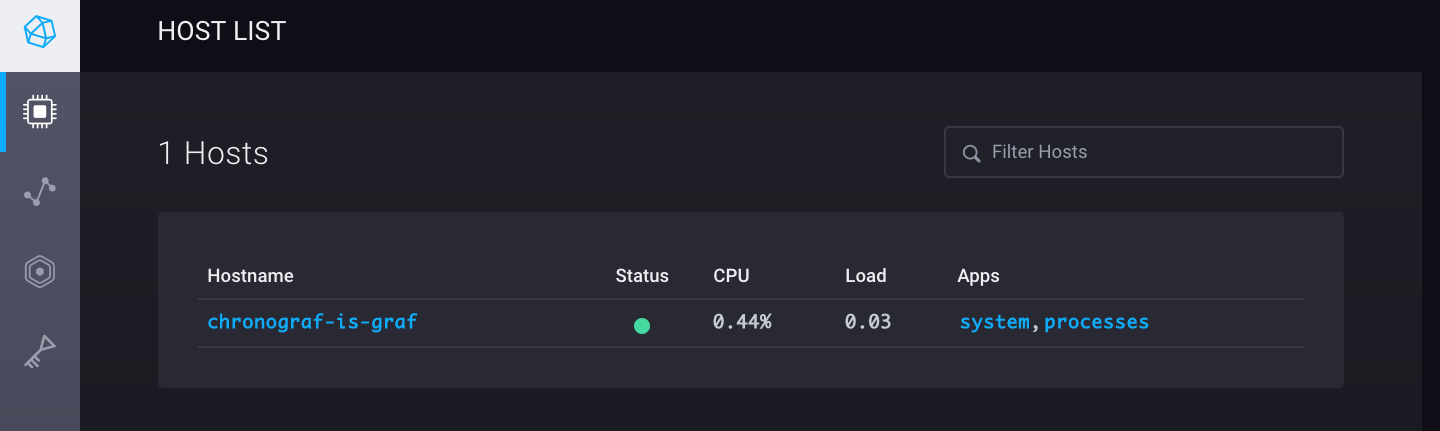
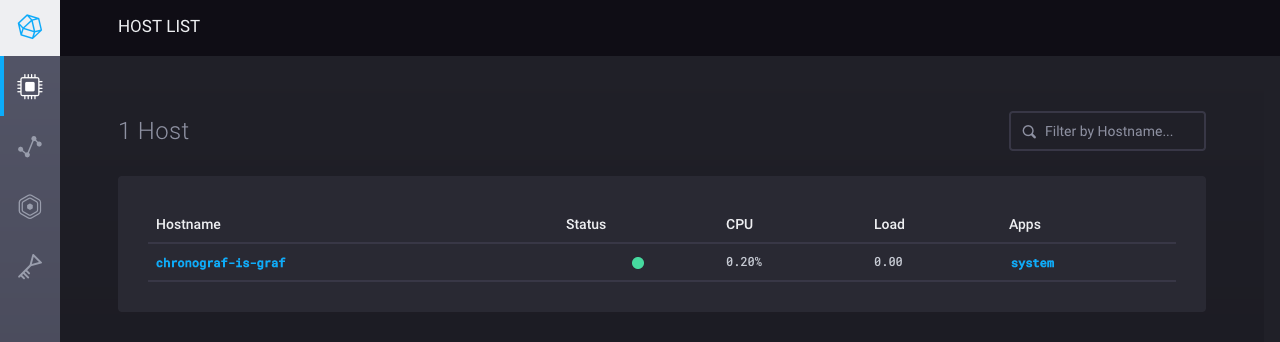
Update INSTALLATION and GETTING_STARTED

diff --git a/docs/INSTALLATION.md b/docs/INSTALLATION.md
@@ -20,8 +20,8 @@ Check out the [downloads](https://www.influxdata.com/downloads/) page for links 
 
 #### 1. Download and Install InfluxDB
 ```
-wget https://dl.influxdata.com/influxdb/releases/influxdb_1.1.1_amd64.deb
-sudo dpkg -i influxdb_1.1.1_amd64.deb
+wget https://dl.influxdata.com/influxdb/releases/influxdb_1.2.0_amd64.deb
+sudo dpkg -i influxdb_1.2.0_amd64.deb
 ```
 
 #### 2. Start InfluxDB
@@ -38,7 +38,7 @@ curl "http://localhost:8086/query?q=show+databases"
 ```
 If InfluxDB is up and running, you should see an object that contains the `_internal` database:
 ```json
-{"results":[{"series":[{"name":"databases","columns":["name"],"values":[["_internal"]]}]}]}
+{"results":[{"statement_id":0,"series":[{"name":"databases","columns":["name"],"values":[["_internal"]]}]}]}
 ```
 So far so good! You're ready to move on to the next section. Note that there's no need to create your own database on your InfluxDB instance; the other components of the TICK stack will handle that for you.
 
@@ -49,8 +49,8 @@ Kapacitor is responsible for creating and sending alerts in Chronograf.
 
 #### 1. Download and Install Kapacitor
 ```
-wget https://dl.influxdata.com/kapacitor/releases/kapacitor_1.1.1_amd64.deb
-sudo dpkg -i kapacitor_1.1.1_amd64.deb
+wget https://dl.influxdata.com/kapacitor/releases/kapacitor_1.2.0_amd64.deb
+sudo dpkg -i kapacitor_1.2.0_amd64.deb
 ```
 
 #### 2. Start Kapacitor
@@ -81,16 +81,15 @@ We will also configure Telegraf's basic [system stats](https://github.com/influx
 
 In a production environment, Telegraf would be installed on your servers and would point the output to an InfluxDB instance on a separate machine.
 Ultimately, you will configure a Telegraf input plugin for each application that you want to monitor.
-At the end of this guide we provide sample configurations for additional applications.
 
 > Note:
-Currently, Chronograf requires users to run Telegraf's [CPU](https://github.com/influxdata/telegraf/blob/master/plugins/inputs/system/CPU_README.md) and [system](https://github.com/influxdata/telegraf/blob/master/plugins/inputs/system/SYSTEM_README.md) plugins to ensure that all Apps appear on the [HOST LIST](https://github.com/influxdata/chronograf/blob/master/docs/GETTING_STARTED.md#host-list) page.
+Currently, Chronograf requires users to run Telegraf's  [system stats](https://github.com/influxdata/telegraf/blob/master/plugins/inputs/system/SYSTEM_README.md) plugin to ensure that all content appears on the [HOST LIST](https://github.com/influxdata/chronograf/blob/master/docs/GETTING_STARTED.md#host-list) page.
 This is a known issue.
 
 #### 1. Download and Install Telegraf
 ```
-wget https://dl.influxdata.com/telegraf/releases/telegraf_1.1.2_amd64.deb
-sudo dpkg -i telegraf_1.1.2_amd64.deb
+wget https://dl.influxdata.com/telegraf/releases/telegraf_1.2.0_amd64.deb
+sudo dpkg -i telegraf_1.2.0_amd64.deb
 ```
 
 #### 2. Start Telegraf
@@ -216,9 +215,9 @@ You should see a welcome page:
 The next steps connect Chronograf to your InfluxDB instance.
 For the `Connection String`, enter the hostname or IP of the machine that InfluxDB is running on, and be sure to include InfluxDB's default port: `8086`.
 Next, name the connection string; this can be anything you want.
-Finally, there's no need to enter any information for the `Username` and `Password` inputs as [authorization is disabled](https://docs.influxdata.com/influxdb/latest/administration/config/#auth-enabled-false) in InfluxDB's default configuration.
+There's no need to edit the last three inputs; [authorization is disabled](https://docs.influxdata.com/influxdb/latest/administration/config/#auth-enabled-false) in InfluxDB's default configuration so `Username` and `Password` can remain blank, and Telegraf's [default database name](https://github.com/influxdata/telegraf/blob/master/etc/telegraf.conf#L89) is `telegraf`.
 
-Click `Create New Server` to move on to the `HOST LIST` page:
+Click `Connect New Source` to move on to the `HOST LIST` page:
 
 ![Chronograf Host List Page](https://github.com/influxdata/chronograf/blob/master/docs/images/host-list.png)
 

diff --git a/docs/GETTING_STARTED.md b/docs/GETTING_STARTED.md
@@ -12,9 +12,9 @@ It lists every host that is sending [Telegraf](https://github.com/influxdata/tel
 
 ![Host List](https://github.com/influxdata/chronograf/blob/master/docs/images/host-list-gs.png)
 
-The Chronograf instance shown above is connected to three hosts (`telegraf-region-neverland`, `telegraf-region-narnia`, and `telegraf-region-howardsend`).
-The first host is using 9.96%	of its total CPU and has a load of 0.15.
-It has two configured apps: `system` and `processes`.
+The Chronograf instance shown above is connected to two hosts (`telegraf-neverland` and `telegraf-narnia`).
+The first host is using 0.23%	of its total CPU and has a load of 0.00.
+It has one configured app: `system`.
 Apps are Telegraf [input plugins](https://github.com/influxdata/telegraf#input-plugins) that have dashboard templates in Chronograf.
 
 Click on the app on the `HOST LIST` page to access its dashboard template.
@@ -23,7 +23,7 @@ Here's the dashboard template for Telegraf's [system stats](https://github.com/i
 
 ![System Graph Layout](https://github.com/influxdata/chronograf/blob/master/docs/images/system-layout-gs.gif)
 
-Notice that you can hover over the graphs to get additional information about the data, and you select alternative time ranges for the graphs by using the time selector in the top right corner.
+Hover over the graphs to get additional information about the data, and select alternative time ranges for the graphs by using the time selector in the top right corner.
 
 See the [README](https://github.com/influxdata/chronograf#dashboard-templates) for a complete list of the apps supported by Chronograf.
 
@@ -54,8 +54,8 @@ Chronograf also offers a UI for generating [Kapacitor](https://github.com/influx
 
 ### Create an Alert Rule
 Easily create a Kapacitor alert rule on the `KAPACITOR RULES` page.
-Access the `KAPACITOR RULES` page by hovering over the third item in the left navigation menu and selecting `Rules`.
-Then, click on the `Add New Rule` button to create a new alert rule.
+Access the `KAPACITOR RULES` page by hovering over the third item in the left navigation menu and selecting `Kapacitor Rules`.
+Then, click on the `Create New Rule` button to create a new alert rule.
 
 The example rule shown below operates on data from Telegraf's [system stats](https://github.com/influxdata/telegraf/tree/master/plugins/inputs/system) input plugin and sends a simple threshold alert to Slack:
 
@@ -88,4 +88,4 @@ You can configure your alert endpoints on the `CONFIGURE KAPACITOR` page.
 See all active alerts on the `ALERTING` page, and filter them by `Name`,
 `Level`, and `Host`:
 
-![Alert View](https://github.com/influxdata/chronograf/blob/master/docs/images/alert-view-gs.gif)
+![Alert View](https://github.com/influxdata/chronograf/blob/master/docs/images/alert-view-gs.png)

diff --git a/README.md b/README.md
@@ -54,8 +54,8 @@ Currently, Chronograf offers dashboard templates for the following Telegraf inpu
 
 Chronograf's graphing tool that allows you to dig in and create personalized visualizations of your data.
 
-* Generate [InfluxQL](https://docs.influxdata.com/influxdb/v1.1/query_language/) statements with the query builder
-* Generate and edit [InfluxQL](https://docs.influxdata.com/influxdb/v1.1/query_language/) statements with the raw query editor
+* Generate [InfluxQL](https://docs.influxdata.com/influxdb/latest/query_language/) statements with the query builder
+* Generate and edit [InfluxQL](https://docs.influxdata.com/influxdb/latest/query_language/) statements with the raw query editor
 * Create visualizations and view query results in tabular format
 * Manage visualizations with exploration sessions
 
@@ -112,7 +112,7 @@ docker pull quay.io/influxdb/chronograf:latest
 ### From Source
 
 * Chronograf works with go 1.7.4, npm 3.10.7 and node v6.6.0. Additional version support of these projects will be implemented soon, but these are the only supported versions to date.
-* Chronograf requires [Kapacitor](https://github.com/influxdata/kapacitor) 1.1.x to create and store alerts.
+* Chronograf requires [Kapacitor](https://github.com/influxdata/kapacitor) 1.1.x+ to create and store alerts.
 
 1. [Install Go](https://golang.org/doc/install)
 1. [Install Node and NPM](https://nodejs.org/en/download/)
